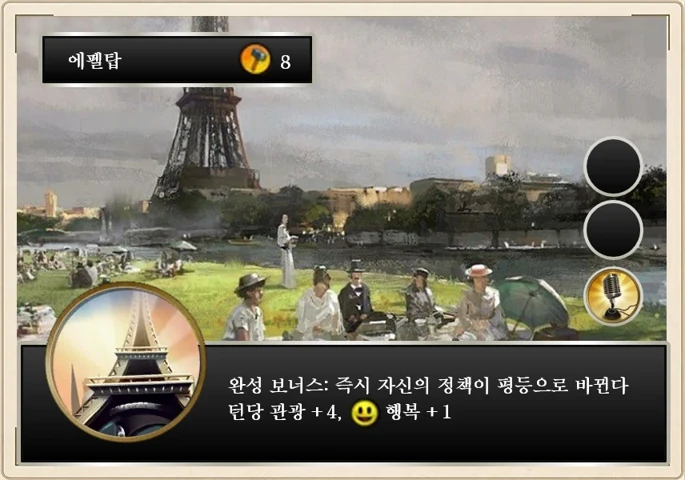
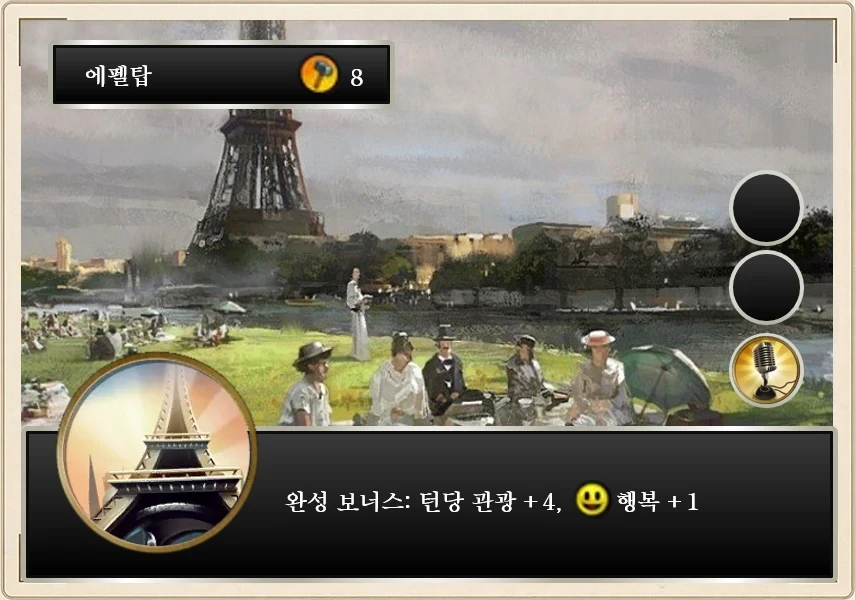
에펠탑: 정책을 평등으로 바꾸는 효과 제거, 카드 그림 교체 (사용자 확인)
Claude-Session: https://claude.ai/code/session_01LVieUpBnSHWZvYhZazdeNW

Changed region(s): [[0.3372, 0.7812, 0.9197, 0.9062]]

diff --git a/src/engine/__tests__/rulesCheck.test.ts b/src/engine/__tests__/rulesCheck.test.ts
@@ -15,6 +15,8 @@ describe('사용자 확인 규칙', () => {
     const artemis = WONDER_CARDS.find((w) => w.id === 'temple_of_artemis')!.effects.find((e) => e.kind === 'militaryCostMinus')
     expect(artemis && 'bases' in artemis ? [...artemis.bases].sort() : []).toEqual(['archer', 'chariot', 'spearman', 'warrior'])
     expect(WONDER_CARDS.find((w) => w.name === '치첸이사')!.effects).toContainEqual({ kind: 'happiness', amount: 2 })
+    // 에펠탑: 턴당 관광 +4, 행복 +1 (정책을 바꾸지 않는다)
+    expect(WONDER_CARDS.find((w) => w.id === 'eiffel_tower')!.effects).toEqual([{ kind: 'tourism', amount: 4 }, { kind: 'happiness', amount: 1 }])
   })
   it('일반 선전포고는 점령되지 않은 상대 타일만 노린다', () => {
     const s = createGame({ seed: 1, civIds: ['korea', 'germany', 'china'] })

diff --git a/docs/rules.md b/docs/rules.md
@@ -434,7 +434,7 @@
     효과가 다시 발동합니다.
 
 -   일부 불가사의와 기술은 정책을 바꿉니다(피라미드, 펜타곤, 루브르,
-    에펠탑, 자유의 여신상, 레이더).
+    자유의 여신상, 레이더).
 
   -----------------------------------------------------------------------
   정책             효과
@@ -874,8 +874,7 @@
   자유의 여신상  전기          7      정책이 자유일 정책 1개를 고름
                                       때            
 
-  에펠탑         라디오        8                    정책이 평등으로 바뀜,
-                                                    턴당 관광 +4, 행복 +1
+  에펠탑         라디오        8                    턴당 관광 +4, 행복 +1
 
   펜타곤         통합작전군    8      정책이        정책이 자유로 바뀜
                                       전제정치일 때 

diff --git a/docs/ui-review.md b/docs/ui-review.md
@@ -243,3 +243,4 @@
 
 ## 29. 180라운드 무승부는 AI 시뮬레이션 전용 (사용자 결정)
 - 도감·규칙서에서 "180라운드 무승부"를 뺐다. 엔진의 라운드 제한은 `createGame({ roundLimit })`로 옮겼다: 기본은 180(AI 시뮬레이션·테스트), 사람 자리가 있는 핫시트와 온라인 방은 `null`(끝없이 계속).
+- (규칙 바로잡기, 사용자 확인) 에펠탑은 정책을 평등으로 바꾸지 않는다: 데이터에서 setPolicy를 빼고, 옛 카드 그림(평등 문구가 있던 것)을 사용자가 준 그림으로 바꿨다. 규칙서도 고쳤다.
